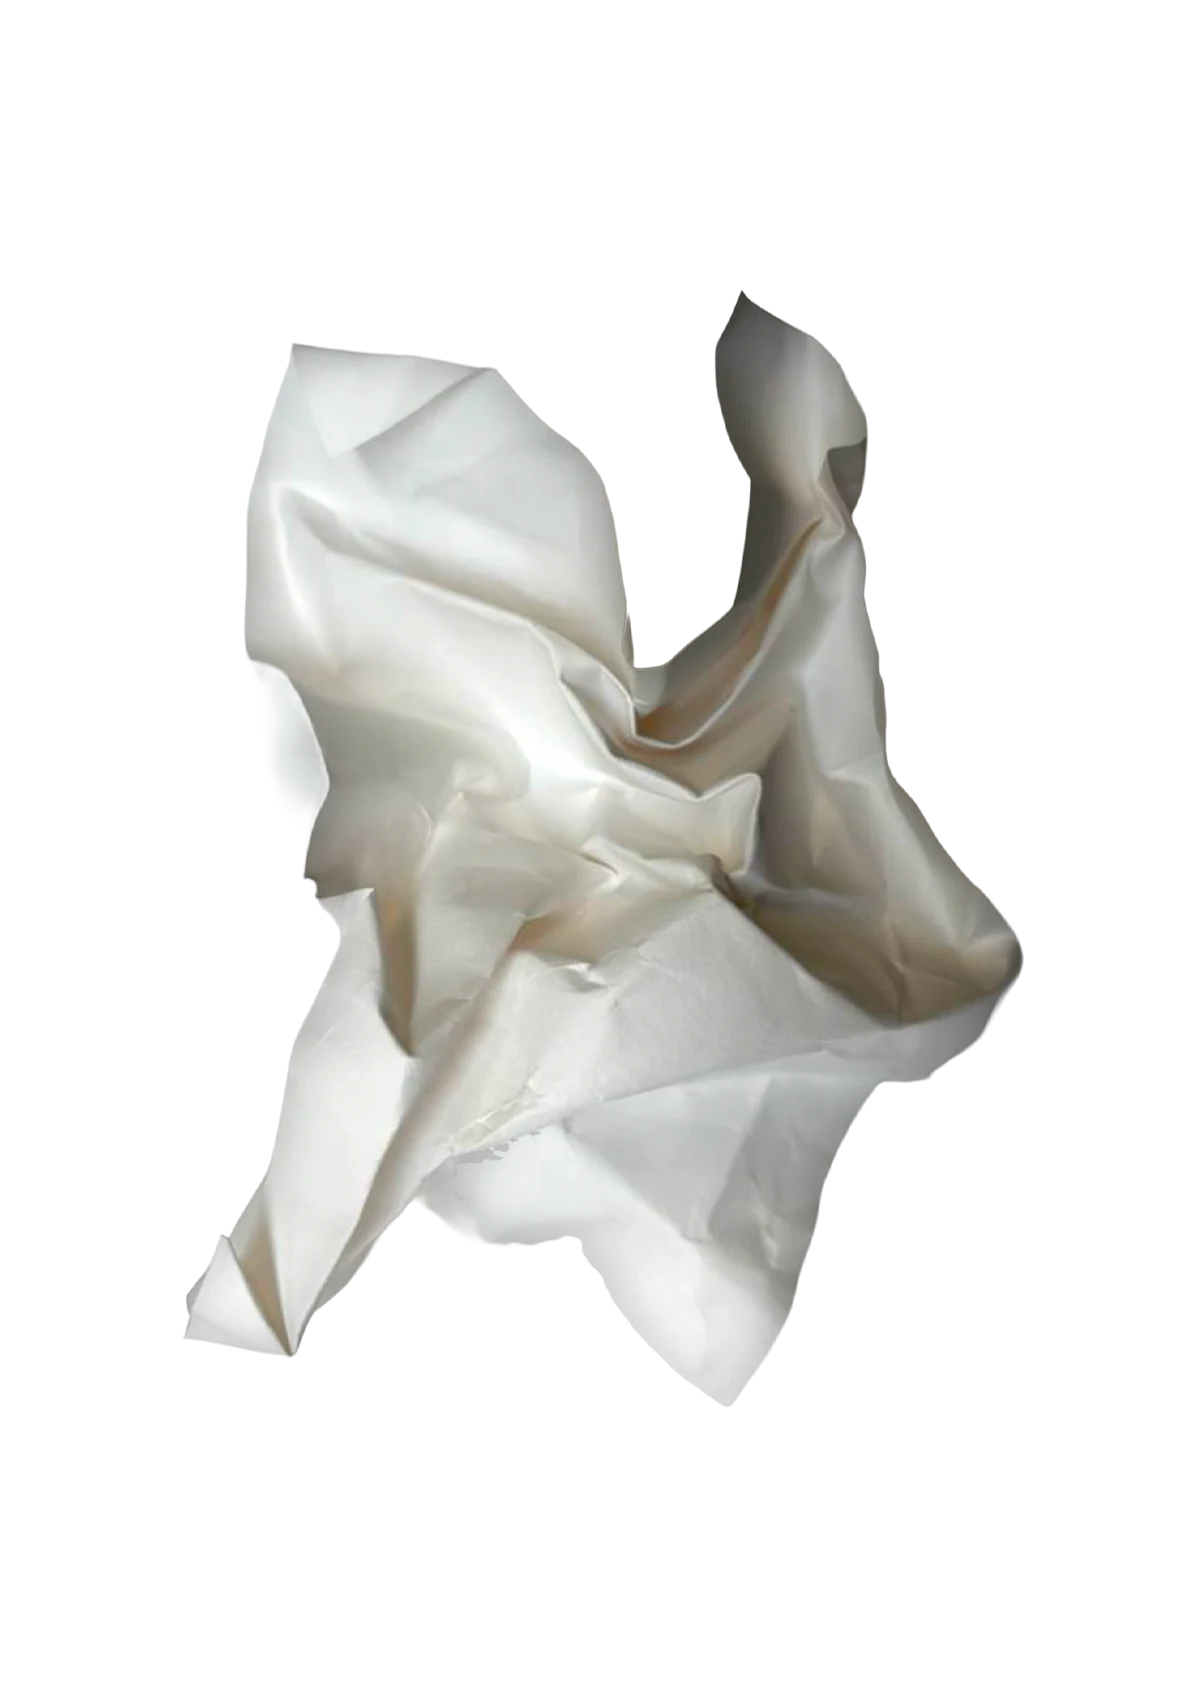
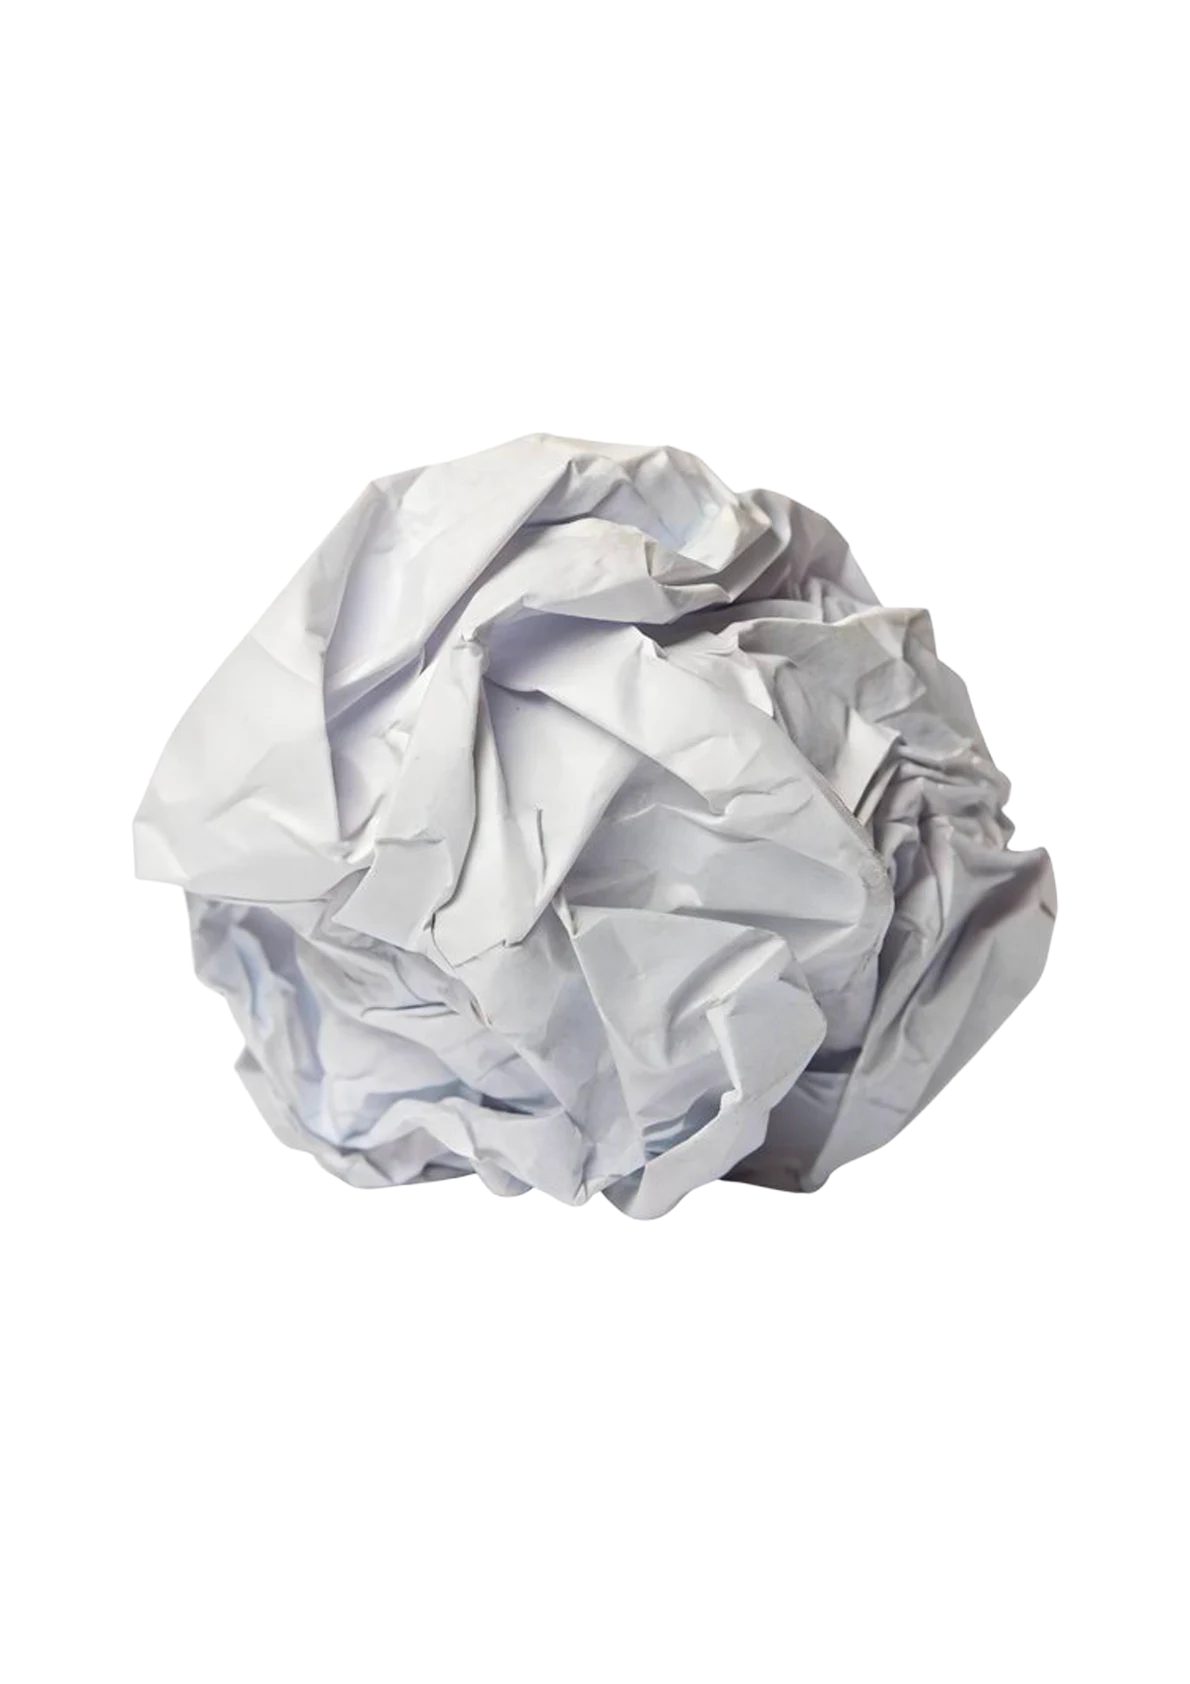
paper folde cv

Changed region(s): [[0.0933, 0.1544, 0.9017, 0.8337], [0.5286, 0.772, 0.5597, 0.8029]]

diff --git a/portfolio-v1/src/assets/js/main.js b/portfolio-v1/src/assets/js/main.js
@@ -315,37 +315,102 @@ document.addEventListener("DOMContentLoaded", () => {
   /* ============================================================
    SECTION 3 : page-cv — hand zoom centré + reveal box
    ============================================================ */
+  const handWrapper = document.getElementById("handWrapper");
   const handImg = document.getElementById("handImg");
   const cvBox = document.getElementById("cvBox");
 
-  // easings réutilisables
-  const easeScale = gsap.parseEase("power1.inOut"); // zoom main : smooth, progressif
-  const easeBox = gsap.parseEase("power3.in"); // box : lente au début, accélère en douceur vers la fin
+  const cvFinal = document.getElementById("cvFinal");
+  const cvPaper2 = document.getElementById("cvPaper2");
+  const cvPaper3 = document.getElementById("cvPaper3");
+
+  const easeScale = gsap.parseEase("power1.inOut");
+  const easeBox = gsap.parseEase("power3.in");
+  const easeFade = gsap.parseEase("power1.inOut");
+
+  // PHASE1_END = jusqu'où va ta phase actuelle (zoom + box).
+  // PHASE1_END à 1 sur l'échelle du NOUVEAU pinDistance total.
+  const PHASE1_END = 0.4; // 40% du scroll total pour zoom+box, 60% pour la suite
 
   createStage({
     stageId: "cvStage",
-    pinDistance: 6000,
+    pinDistance: 15000, // total = ancien 6000 (phase1) + nouveau budget pour phase2
     fadeInEnd: 0,
     fadeOutStart: 1,
     onUpdate: (p) => {
-      // zoom centré de l'image hand, avec easing (plus smooth que linéaire)
-      const maxScale = 15;
-      const scaleProgress = easeScale(p);
-      const scale = 1 + (maxScale - 1) * scaleProgress;
-      gsap.set(handImg, { scale });
+      if (p <= PHASE1_END) {
+        // ===== PHASE 1 : EXACTEMENT TON CODE ACTUEL =====
+        // on remappe p (0 -> PHASE1_END) en pp (0 -> 1) pour garder le même timing qu'avant
+        const pp = p / PHASE1_END;
 
-      // box centrale : garde ta logique "reste petite longtemps"
-      // mais avec une courbe GSAP native, plus smooth qu'un pow(p, 6) brut
-      const boxProgress = easeBox(p);
+        const maxScale = 15;
+        const scaleProgress = easeScale(pp);
+        const scale = 1 + (maxScale - 1) * scaleProgress;
+        gsap.set(handImg, { scale });
+        gsap.set(handWrapper, { opacity: 1 }); // main bien visible pendant phase 1
 
-      const startSize = 60;
-      const maxWidth = window.innerWidth;
-      const maxHeight = window.innerHeight;
+        const boxProgress = easeBox(pp);
+        const startSize = 60;
+        const maxWidth = window.innerWidth;
+        const maxHeight = window.innerHeight;
 
-      const width = startSize + (maxWidth - startSize) * boxProgress;
-      const height = startSize + (maxHeight - startSize) * boxProgress;
+        const width = startSize + (maxWidth - startSize) * boxProgress;
+        const height = startSize + (maxHeight - startSize) * boxProgress;
+        gsap.set(cvBox, { width, height });
 
-      gsap.set(cvBox, { width, height });
+        // papiers pas encore touchés
+        gsap.set([cvFinal, cvPaper2, cvPaper3], { opacity: 1 });
+      } else {
+        // ===== PHASE 2 : main disparaît + cascade des papiers =====
+
+        gsap.set(handImg, { scale: 15 });
+
+        gsap.set(cvBox, {
+          width: window.innerWidth,
+          height: window.innerHeight,
+        });
+
+        const p2 = (p - PHASE1_END) / (1 - PHASE1_END);
+
+        // MAIN : disparaît pendant le premier quart
+        const handFadeP = Math.min(p2 / 0.25, 1);
+
+        gsap.set(handWrapper, {
+          opacity: 1 - easeFade(handFadeP),
+        });
+
+        // PAPERS : commencent après la disparition de la main
+        const paperP = Math.min(Math.max((p2 - 0.25) / 0.75, 0), 1);
+
+        const step = 1 / 3;
+
+        let opacityFinal = 0;
+        let opacityPaper2 = 0;
+        let opacityPaper3 = 0;
+
+        if (paperP < step) {
+          // ÉTAPE 1 : cvFinal
+          opacityFinal = 1;
+        } else if (paperP < step * 2) {
+          // ÉTAPE 2 : cvPaper2
+          opacityPaper2 = 1;
+        } else {
+          // ÉTAPE 3 : cvPaper3
+          // reste visible jusqu'à la fin
+          opacityPaper3 = 1;
+        }
+
+        gsap.set(cvFinal, {
+          opacity: opacityFinal,
+        });
+
+        gsap.set(cvPaper2, {
+          opacity: opacityPaper2,
+        });
+
+        gsap.set(cvPaper3, {
+          opacity: opacityPaper3,
+        });
+      }
     },
   });
 });

diff --git a/portfolio-v1/src/assets/styles/components/_cv.scss b/portfolio-v1/src/assets/styles/components/_cv.scss
@@ -1,5 +1,3 @@
-@use "../variables" as *;
-
 .page-cv {
   position: relative;
   z-index: 10;
@@ -12,13 +10,15 @@
     width: 100%;
     height: 100%;
     overflow: hidden;
+    opacity: 1;
+    will-change: opacity;
 
     img {
       width: 100%;
       height: 100%;
       object-fit: cover;
       display: block;
-      transform-origin: center center; // zoom centré
+      transform-origin: center center;
       will-change: transform;
     }
   }
@@ -27,10 +27,7 @@
     position: absolute;
     top: 50%;
     left: 50%;
-    transform: translate(
-      -50%,
-      -50%
-    ); // reste centrée pendant que width/height grandissent
+    transform: translate(-50%, -50%);
     width: 60px;
     height: 60px;
     overflow: hidden;
@@ -38,10 +35,24 @@
     will-change: width, height;
 
     &-img {
+      position: absolute;
+      inset: 0;
       width: 100%;
       height: 100%;
       object-fit: contain;
       display: block;
+      opacity: 1;
+      will-change: opacity;
+    }
+
+    #cvFinal {
+      z-index: 3;
+    }
+    #cvPaper2 {
+      z-index: 2;
+    }
+    #cvPaper3 {
+      z-index: 1;
     }
   }
 }
